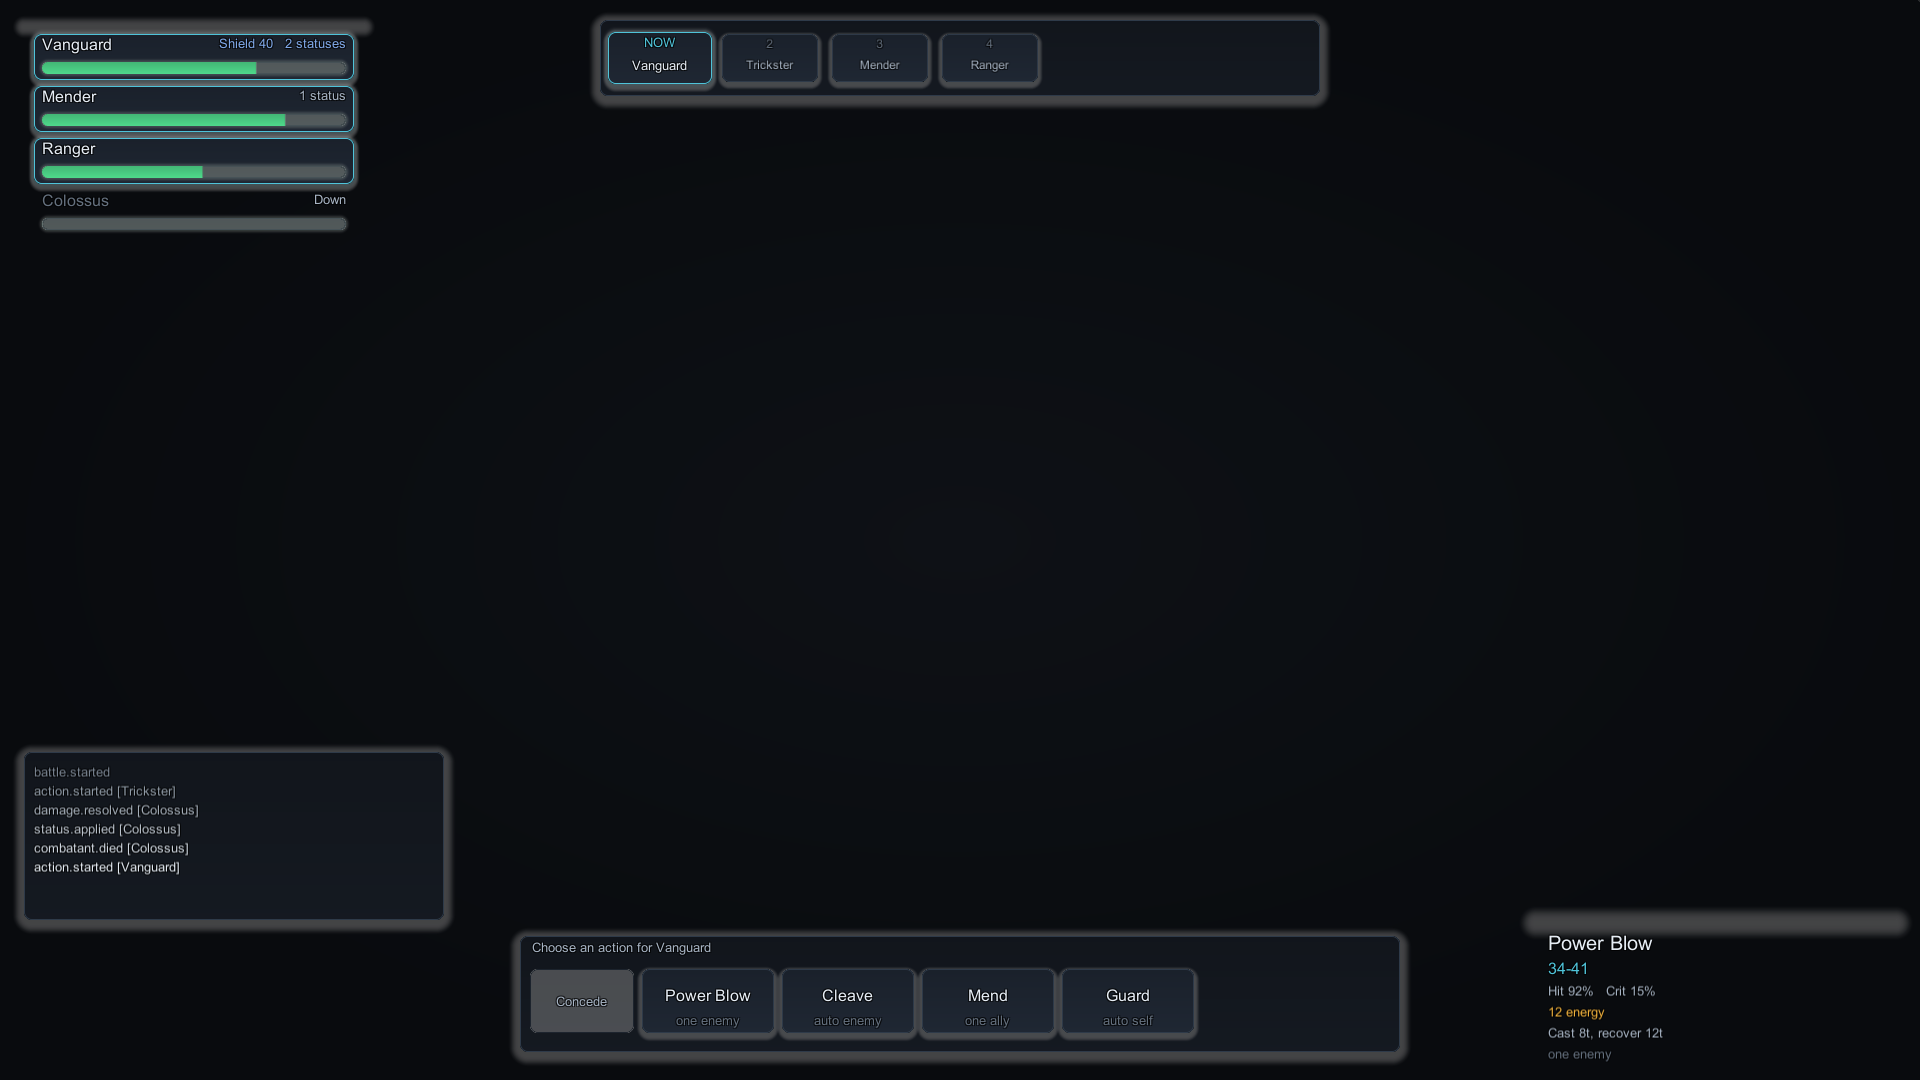
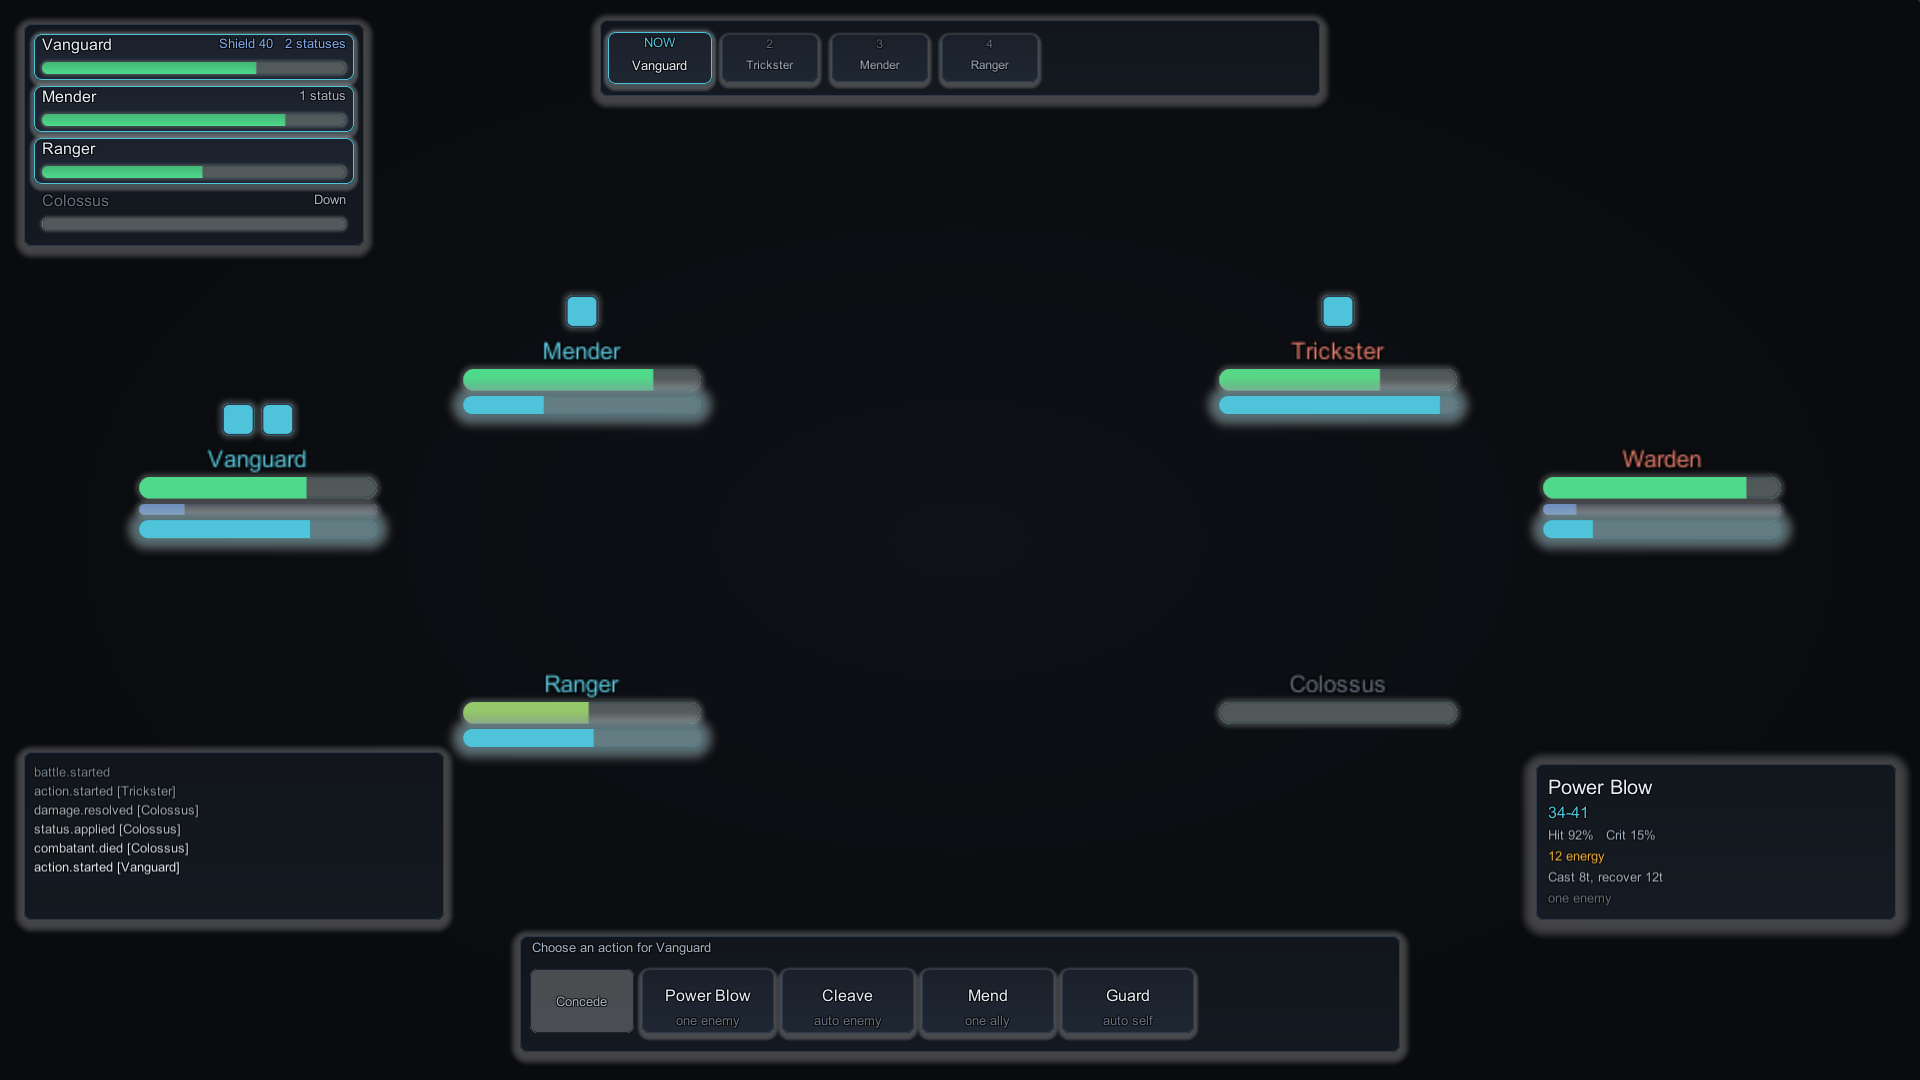
Show every interface region instead of describing it
Adds an "Anatomy of the interface" section built around seven focused shots, one
per region, each cross-linked to the class in the API reference. Every image is
that region alone, built by its own public API, so a reader can see what a
component draws before deciding whether to use it.

The regenerated gallery and hero images fix three defects visible in the old
ones: the roster panel collapsed behind its rows, the tooltip was a thin band
with its text running off the bottom of the frame, and the empty stage left over
half the frame dead. The stage now shows six combatants with team tints, gauges,
and status pips.

The hero caption said "the runtime demo", which was never true -- it is a
composed frame. It now says what it is, and both it and the plate section state
plainly that character art is the buyer's and these images contain only what
TempoForge itself renders. A buyer who thinks sprites are included will be
disappointed once; better it happens before purchase.

Also documents that the roster and tooltip size to their content and ignore an
authored height, which was true before and undocumented.

diff --git a/docs/tutorials/skinning-your-battle.md b/docs/tutorials/skinning-your-battle.md
@@ -47,6 +47,96 @@ Use **Create editable copy…** to turn any of them into an asset you own.
 
 ---
 
+## Anatomy of the interface
+
+Each region is an independent component that renders values you hand it and calls
+nothing back. Every shot below is that one region, built by its own public API and
+nothing else, so what you see is what the component draws on its own.
+
+### Roster — [`StatusRosterView`](../reference/interface-and-widgets.md#statusrosterview)
+
+![Roster](../assets/images/region-roster.png){ .shot }
+
+One row per combatant: name, health bar, and a caption that folds shield and status
+count onto a single line so the region stays narrow on a phone. A downed combatant
+keeps its row but loses its raised plate and drops to the muted text role — read as
+defeated, not merely faint.
+
+The region sizes itself to its rows, so a five-combatant party needs no re-authoring.
+
+### Timeline — [`TimelineStripView`](../reference/interface-and-widgets.md#timelinestripview)
+
+![Timeline](../assets/images/region-timeline.png){ .shot }
+
+Turn order left to right. The acting combatant gets the `PanelRaised` surface, the
+accent colour, and the `NOW` marker; everyone behind is numbered from 2. The strip
+mirrors the order it is given and never sorts, because ordering is the scheduler's
+decision, not the interface's.
+
+### Skill tray — [`SkillTrayView`](../reference/interface-and-widgets.md#skilltrayview)
+
+![Skill tray](../assets/images/region-skill-tray.png){ .shot }
+
+One button per **legal** command, with the target shape as a caption, plus Concede.
+The tray never filters or validates — it draws the
+[`DecisionOptions`](../reference/interface-and-widgets.md#decisionoptions) it was
+given. If a skill is unaffordable, restricted, or on cooldown it is not in that
+value, so it is not on screen.
+
+### Tooltip — [`TooltipPanelView`](../reference/interface-and-widgets.md#tooltippanelview)
+
+![Tooltip](../assets/images/region-tooltip.png){ .shot }
+
+Name, damage range, hit and crit chance, cost, cast and recovery timing, target
+shape. Every figure comes from
+[`TooltipData`](../reference/interface-and-widgets.md#tooltipdata), which the driver
+computes from the preview API. The panel runs no preview itself, which is what keeps
+it on the passive side of the presenter contract.
+
+Rows with nothing to say are deactivated rather than blanked, so the panel shrinks
+to whatever the skill actually has.
+
+### Feedback log — [`FeedbackLogView`](../reference/interface-and-widgets.md#feedbacklogview)
+
+![Feedback log](../assets/images/region-feedback-log.png){ .shot }
+
+The event stream as text, newest last, older lines fading. Useful during
+development and shippable as a combat log. `BattleUiRoot.MaximumFeedbackLines`
+caps retention at 512 so a long battle cannot grow without bound.
+
+### Result banner — [`ResultBannerView`](../reference/interface-and-widgets.md#resultbannerview)
+
+<div class="grid-2" markdown>
+
+<figure markdown>
+  ![Victory](../assets/images/region-result-victory.png){ .shot }
+  <figcaption>Victory takes the <code>Positive</code> role.</figcaption>
+</figure>
+
+<figure markdown>
+  ![Defeat](../assets/images/region-result-defeat.png){ .shot }
+  <figcaption>Defeat takes <code>Negative</code>. No detail line, so none is drawn.</figcaption>
+</figure>
+
+</div>
+
+The banner colours itself from the result kind against the palette, so a new skin
+restyles both outcomes without touching either string.
+
+### Token plates — [`SkinnedTokenPlate`](../reference/interface-and-widgets.md#skinnedtokenplate)
+
+Above each combatant on the stage, TempoForge draws a plate: name in the team
+colour, health, shield, cast progress, scheduler gauge, and status pips.
+
+!!! note "Character art is yours"
+    The plate is everything TempoForge draws over a combatant. It ships no character
+    art and invents none — you assign your own sprite to the token's
+    `SpriteRenderer` and the plate reads on top of it. That is why the stage in the
+    gallery shots below shows plates over empty ground: those images contain only
+    what the package itself renders.
+
+---
+
 ## What you can change
 
 ### Palette
@@ -111,6 +201,12 @@ Each interface region is independently placeable: `Status`, `Timeline`,
   costs nothing.
 - `UseSafeArea` insets the whole interface into the device safe area, so no region
   lands under a notch or a home indicator.
+- The roster and the tooltip **ignore the height you give them** and size to their
+  content instead, because neither has a fixed row count. Set their `Size.x` to
+  choose a width; the height follows the rows.
+
+See [Anatomy of the interface](#anatomy-of-the-interface) above for what each region
+draws.
 
 **Shipping tip:** turn off the `Transport` region, or tick **Hide Transport
 Controls** on `BattleUiRoot`. Those are development controls.

diff --git a/docs/index.md b/docs/index.md
@@ -13,11 +13,13 @@ workbench, and a battle interface you can restyle from one asset.</p>
 
 </div>
 
-![The runtime demo rendered with the Slate Nocturne skin](assets/images/hero-battle.png){ .shot }
+![A battle drawn with the Slate Nocturne skin](assets/images/hero-battle.png){ .shot }
 
 /// caption
-The runtime demo, Slate Nocturne skin. Roster, turn-order strip, skill tray, and token
-plates are drawn by a signed-distance-field shader &mdash; no textures ship with the package.
+Slate Nocturne, the default skin. Roster, turn-order strip, skill tray, tooltip, log, and
+the plates above each combatant are drawn by a signed-distance-field shader &mdash; no
+texture and no font ship with the package. **Character art is yours:** this frame shows only
+what TempoForge itself renders, which is why the combatants are plates over empty ground.
 ///
 
 ---
